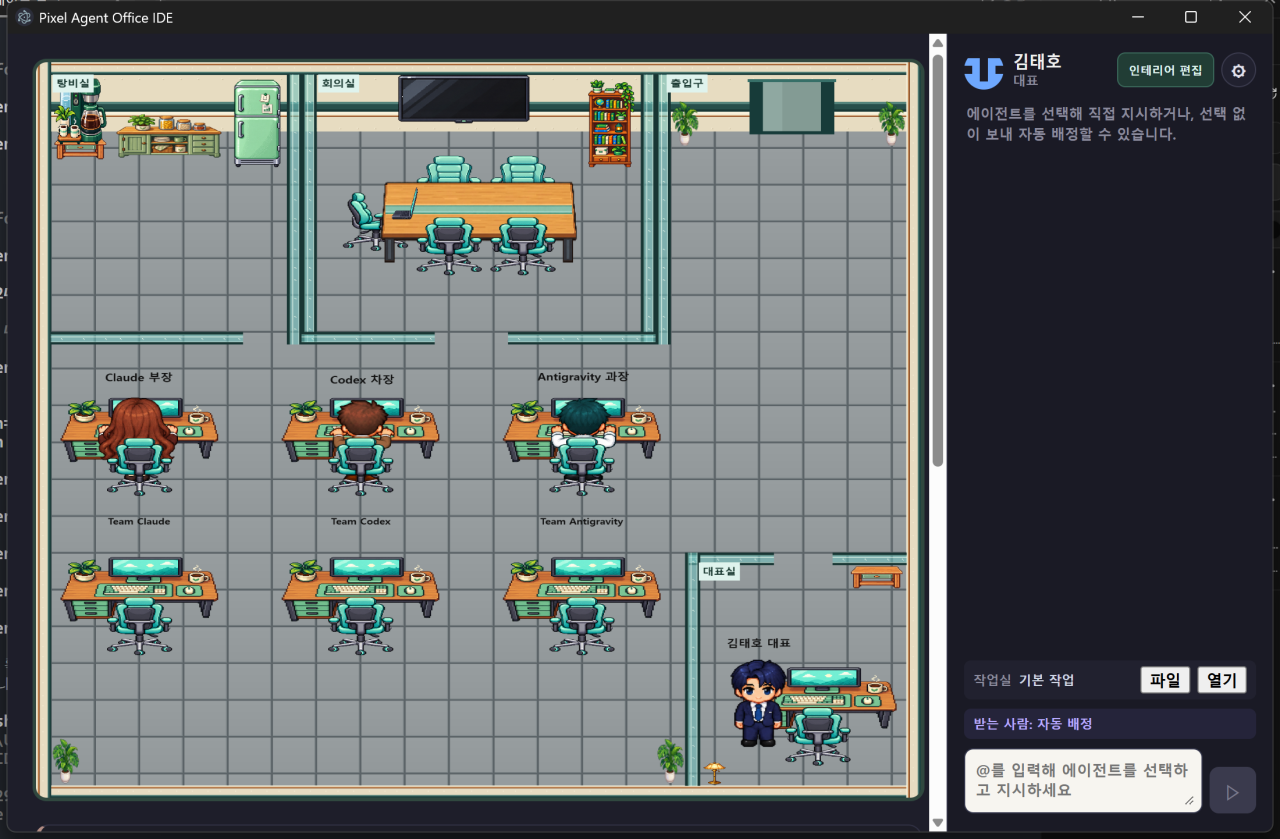
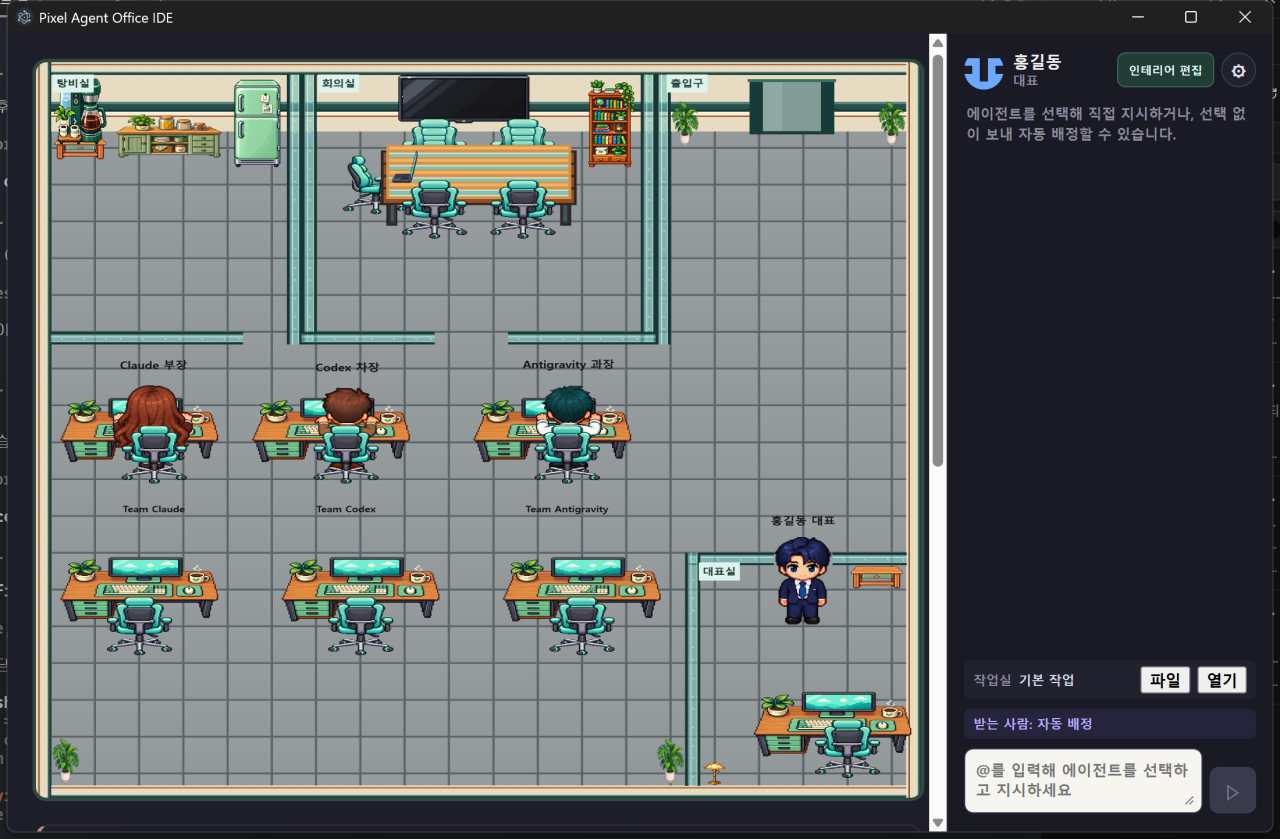
feat: let each install name its own representative
The representative's name ("김태호") was hardcoded across the chat
header, chat messages, and the office floor label - literally the
name of whoever built this app, baked into a public product. Every
install now prompts for a name on first launch and can change it
later from Settings; the name is stored in userData and propagates
live to the office scene and chat without a restart.

Also swaps the landing page screenshot, which showed that hardcoded
real name, for one taken with a generic placeholder name.

Claude-Session: https://claude.ai/code/session_01UEd7znGKB12Fiumt6ZuCpS

diff --git a/src/renderer/src/App.tsx b/src/renderer/src/App.tsx
@@ -7,6 +7,7 @@ import DiffPanel from './components/DiffPanel'
 import ChatPanel from './components/ChatPanel'
 import WorkspacePanel from './components/WorkspacePanel'
 import ResumeProjectDialog from './components/ResumeProjectDialog'
+import FirstRunNameDialog from './components/FirstRunNameDialog'
 import { resolveResumeRequest } from './lib/resumeCommands'
 import { MEETING_LEADS, isMeetingQuestion, pendingMeetingQuestions, type MeetingDraft } from '@shared/meetingNotes'
 import { MEETING_NOTES_KEY, readMeetingDraft } from './lib/meetingNotes'
@@ -57,6 +58,8 @@ function App() {
   const [manuallyOffDutyIds, setManuallyOffDutyIds] = useState<Set<string>>(new Set())
   const [representativeVisitors, setRepresentativeVisitors] = useState(() => readOfficeVisitors(localStorage))
   const [conversationProfileId, setConversationProfileId] = useState<string | null>(null)
+  const [representativeName, setRepresentativeName] = useState('대표')
+  const [showNamePrompt, setShowNamePrompt] = useState(false)
   const recoveredCommand = useRef(false)
   const instancesLoaded = useRef(false)
   const [meetingDraft, setMeetingDraft] = useState<MeetingDraft | null>(() => readMeetingDraft(localStorage))
@@ -84,7 +87,18 @@ function App() {
   }
 
   const { messages, lastTaskByInstance, sendPrompt, sendPlanningPrompt, sendAssignments, addSystemMessage, addUserMessage, addAgentMessage, cancelPlanning, trackRestoredTasks } =
-    useAgentChat(instances, templates, handlePlanReady)
+    useAgentChat(instances, templates, representativeName, handlePlanReady)
+
+  useEffect(() => {
+    window.api.userProfile.getRepresentativeName().then(setRepresentativeName)
+    window.api.userProfile.hasRepresentativeName().then((has) => { if (!has) setShowNamePrompt(true) })
+    return window.api.userProfile.onRepresentativeNameChanged(setRepresentativeName)
+  }, [])
+
+  const confirmRepresentativeName = (name: string): void => {
+    window.api.userProfile.setRepresentativeName(name).then(setRepresentativeName)
+    setShowNamePrompt(false)
+  }
 
   useEffect(() => {
     if (!window.api.tasks.dispatch) return
@@ -657,6 +671,7 @@ ${plan.originalText}`
           meetingActive={meetingActive}
           manuallyOffDutyIds={manuallyOffDutyIds}
           representativeVisitors={representativeVisitors}
+          representativeName={representativeName}
           messages={messages}
           requests={requests}
           onConversationChange={setConversationProfileId}
@@ -679,6 +694,7 @@ ${plan.originalText}`
         instances={instances}
         templates={templates}
         workFolder={workFolder}
+        userName={representativeName}
         onOpenFiles={() => setFilesOpen(true)}
         onOpenFolder={() => { void window.api.workspace.openFolder().catch((e) => setError(String(e))) }}
         messages={messages}
@@ -689,6 +705,7 @@ ${plan.originalText}`
 
       {filesOpen && <WorkspacePanel workFolder={workFolder} onChooseFolder={chooseFolder} onClose={() => setFilesOpen(false)} />}
       {resumeOpen && <ResumeProjectDialog tasks={trackedTasks} onClose={() => setResumeOpen(false)} onSelect={project => { void resumeProject(project) }} />}
+      {showNamePrompt && <FirstRunNameDialog onConfirm={confirmRepresentativeName} onSkip={() => setShowNamePrompt(false)} />}
 
       {selectedInstanceId &&
         (() => {

diff --git a/src/renderer/src/SettingsWindow.tsx b/src/renderer/src/SettingsWindow.tsx
@@ -65,6 +65,8 @@ function SettingsWindow() {
   const [loginSession, setLoginSession] = useState<{ ptyId: string; title: string } | null>(null)
   const [capacities, setCapacities] = useState<Record<string, number>>({})
   const [profiles, setProfiles] = useState<AgentProfile[]>([])
+  const [representativeName, setRepresentativeName] = useState('')
+  const [nameSaved, setNameSaved] = useState(false)
 
   useEffect(() => {
     window.api.templates.list().then((list) => {
@@ -73,6 +75,7 @@ function SettingsWindow() {
     })
     window.api.teamCapacity.list().then(setCapacities)
     window.api.profiles.list().then(setProfiles)
+    window.api.userProfile.getRepresentativeName().then(setRepresentativeName)
     const unsubscribeTemplates = window.api.templates.onChanged(() => {
       window.api.templates.list().then(setTemplates)
       window.api.profiles.list().then(setProfiles)
@@ -86,6 +89,14 @@ function SettingsWindow() {
       unsubscribeCapacity()
     }
   }, [])
+
+  const saveRepresentativeName = async (): Promise<void> => {
+    if (!representativeName.trim()) return
+    const saved = await window.api.userProfile.setRepresentativeName(representativeName)
+    setRepresentativeName(saved)
+    setNameSaved(true)
+    setTimeout(() => setNameSaved(false), 2000)
+  }
 
   const resetForm = (): void => {
     setEditingId(null)
@@ -142,6 +153,29 @@ function SettingsWindow() {
         <h1>에이전트 설정</h1>
         <span className="settings-count-badge">{templates.length}개 등록됨</span>
       </div>
+
+      <form
+        className="settings-form-card"
+        onSubmit={(e) => { e.preventDefault(); void saveRepresentativeName() }}
+      >
+        <h3>내 이름</h3>
+        <p className="settings-hint">오피스 화면과 채팅에 대표 이름으로 표시됩니다.</p>
+        <label>
+          이름
+          <input
+            value={representativeName}
+            onChange={(e) => setRepresentativeName(e.target.value)}
+            placeholder="예: 홍길동"
+            maxLength={20}
+            required
+          />
+        </label>
+        <div className="settings-form-actions">
+          <button type="submit" className="pill-btn pill-btn-primary">저장</button>
+          {nameSaved && <span className="settings-saved-hint">저장됨</span>}
+        </div>
+      </form>
+
       <p className="settings-hint">
         오피스에 배치할 수 있는 에이전트 템플릿을 관리합니다. 실제 CLI 실행 명령어를 등록하고, API
         키를 넣거나 계정으로 직접 로그인하세요.

diff --git a/src/renderer/src/hooks/useAgentChat.ts b/src/renderer/src/hooks/useAgentChat.ts
@@ -42,15 +42,20 @@ export interface AgentAssignment {
 export function useAgentChat(
   instances: AgentInstance[],
   templates: AgentTemplate[],
+  userName: string,
   onPlanReady?: (payload: PlanReadyPayload) => void
 ) {
   const [messages, setMessages] = useState<ChatMessage[]>(() => readChatHistory(localStorage))
   const [lastTaskByInstance, setLastTaskByInstance] = useState<Record<string, string>>({})
+  // kept fresh every render so the long-lived pty:data listener below always
+  // sees the current name without needing to resubscribe
+  const userNameRef = useRef(userName)
+  userNameRef.current = userName
 
   useEffect(() => saveChatHistory(localStorage, messages), [messages])
 
   const addUserMessage = (text: string): void => {
-    const message = userChatMessage(text)
+    const message = userChatMessage(text, userNameRef.current)
     setMessages((prev) => [...prev, message])
   }
 
@@ -297,14 +302,7 @@ export function useAgentChat(
 
     setMessages((prev) => [
       ...prev,
-      {
-        id: crypto.randomUUID(),
-        kind: 'user',
-        authorName: '김태호',
-        authorColor: '#6ea8fe',
-        authorSeed: 'me',
-        text: displayText
-      },
+      userChatMessage(displayText, userNameRef.current),
       {
         id: crypto.randomUUID(),
         kind: 'system',
@@ -358,7 +356,7 @@ export function useAgentChat(
 
     setMessages((prev) => [
       ...prev,
-      ...(displayText === null ? [] : [userChatMessage(displayText)]),
+      ...(displayText === null ? [] : [userChatMessage(displayText, userNameRef.current)]),
       {
         id: crypto.randomUUID(),
         kind: 'system',
@@ -418,14 +416,7 @@ export function useAgentChat(
 
     setMessages((prev) => [
       ...prev,
-      {
-        id: crypto.randomUUID(),
-        kind: 'user',
-        authorName: '김태호',
-        authorColor: '#6ea8fe',
-        authorSeed: 'me',
-        text: originalText
-      },
+      userChatMessage(originalText, userNameRef.current),
       {
         id: crypto.randomUUID(),
         kind: 'system',

diff --git a/src/renderer/src/styles/global.css b/src/renderer/src/styles/global.css
@@ -1206,7 +1206,13 @@ textarea {
 
 .settings-form-actions {
   display: flex;
+  align-items: center;
   gap: 8px;
+}
+
+.settings-saved-hint {
+  color: #7fd8a4;
+  font-size: 13px;
 }
 
 .profile-card-diff-btn {
@@ -1487,6 +1493,12 @@ textarea {
 .resume-project-option { display: flex; flex-direction: column; gap: 8px; width: 100%; margin-top: 12px; padding: 16px; text-align: left; border: 1px solid #555875; border-radius: 6px; background: #2c314b; color: #eef0f6; cursor: pointer; }
 .resume-project-option:hover { background: #394365; }
 .resume-project-option small { color: #abb6d0; overflow-wrap: anywhere; }
+.first-run-dialog { width: min(420px, 86vw); padding: 24px; border: 1px solid #555875; border-radius: 12px; background: #202238; color: #eef0f6; }
+.first-run-dialog::backdrop { background: #0009; }
+.first-run-dialog h2 { margin: 0 0 8px; font-size: 20px; }
+.first-run-dialog p { margin: 0 0 16px; color: #b9bfd4; font-size: 13px; line-height: 1.6; }
+.first-run-dialog input { width: 100%; padding: 10px 12px; border: 1px solid #555875; border-radius: 6px; background: #2c314b; color: #eef0f6; font-size: 14px; box-sizing: border-box; }
+.first-run-dialog-actions { display: flex; justify-content: flex-end; gap: 8px; margin-top: 18px; }
 .meeting-notes-bar { display: flex; align-items: center; flex-wrap: wrap; gap: 10px; padding: 10px 14px; margin-bottom: 12px; background: #302b22; color: #f3dbac; border: 1px solid #92724d; border-radius: 6px; font-size: 13px; }
 .meeting-notes-bar > span:first-child { flex: 1; min-width: 200px; }
 .meeting-notes-bar button, .meeting-question-btn { padding: 6px 10px; color: #f3dbac; background: #473a2c; border: 1px solid #92724d; border-radius: 4px; cursor: pointer; }

diff --git a/src/main/userProfileStore.ts b/src/main/userProfileStore.ts
@@ -1,0 +1,41 @@
+import { existsSync, mkdirSync, readFileSync, writeFileSync } from 'fs'
+import { dirname, join } from 'path'
+import { app } from 'electron'
+
+export const DEFAULT_REPRESENTATIVE_NAME = '대표'
+
+function getStorePath(): string {
+  return join(app.getPath('userData'), 'user-profile.json')
+}
+
+export const userProfileStore = {
+  /** Every install ships with the same generic label, not a real person's
+   *  name - each user names their own representative on first launch. */
+  getRepresentativeName(): string {
+    const path = getStorePath()
+    if (!existsSync(path)) return DEFAULT_REPRESENTATIVE_NAME
+    try {
+      const parsed = JSON.parse(readFileSync(path, 'utf-8')) as { representativeName?: string }
+      const name = parsed.representativeName?.trim()
+      return name && name.length > 0 ? name : DEFAULT_REPRESENTATIVE_NAME
+    } catch {
+      return DEFAULT_REPRESENTATIVE_NAME
+    }
+  },
+
+  /** Whether the user has ever set a name - distinct from the getter's
+   *  fallback, so the renderer can tell "never configured" apart from
+   *  "explicitly chose the default word". */
+  hasSetRepresentativeName(): boolean {
+    return existsSync(getStorePath())
+  },
+
+  setRepresentativeName(name: string): string {
+    const trimmed = name.trim()
+    if (!trimmed) return this.getRepresentativeName()
+    const path = getStorePath()
+    mkdirSync(dirname(path), { recursive: true })
+    writeFileSync(path, JSON.stringify({ representativeName: trimmed }, null, 2), 'utf-8')
+    return trimmed
+  }
+}

diff --git a/src/renderer/src/components/FirstRunNameDialog.tsx b/src/renderer/src/components/FirstRunNameDialog.tsx
@@ -1,0 +1,36 @@
+import { useEffect, useRef, useState } from 'react'
+
+export default function FirstRunNameDialog({ onConfirm, onSkip }: {
+  onConfirm: (name: string) => void
+  onSkip: () => void
+}) {
+  const dialog = useRef<HTMLDialogElement>(null)
+  const [name, setName] = useState('')
+  useEffect(() => { dialog.current?.showModal() }, [])
+
+  const submit = (): void => {
+    const trimmed = name.trim()
+    if (!trimmed) return
+    onConfirm(trimmed)
+  }
+
+  return (
+    <dialog className="first-run-dialog" ref={dialog} onCancel={onSkip} aria-labelledby="first-run-name-title">
+      <form onSubmit={(e) => { e.preventDefault(); submit() }}>
+        <h2 id="first-run-name-title">대표님 성함을 알려주세요</h2>
+        <p>오피스 화면과 채팅에 표시될 이름입니다. 설정에서 언제든 바꿀 수 있어요.</p>
+        <input
+          autoFocus
+          value={name}
+          onChange={(e) => setName(e.target.value)}
+          placeholder="예: 홍길동"
+          maxLength={20}
+        />
+        <div className="first-run-dialog-actions">
+          <button type="button" className="pill-btn" onClick={onSkip}>나중에</button>
+          <button type="submit" className="pill-btn pill-btn-primary" disabled={!name.trim()}>시작하기</button>
+        </div>
+      </form>
+    </dialog>
+  )
+}

diff --git a/src/main/ipc.ts b/src/main/ipc.ts
@@ -11,6 +11,7 @@ import type { MeetingDraft } from '../shared/meetingNotes'
 import { diffAgainstBase, mergeDeskBranch } from './gitWorktreeManager'
 import { mergeTaskFeature } from './taskFeatureWorktree'
 import { teamCapacityStore } from './teamCapacityStore'
+import { userProfileStore } from './userProfileStore'
 import { buildAgentProfiles } from '../shared/agentProfiles'
 import { TASK_DOCUMENTS_FOLDER, WORKSPACE_FOLDERS } from '../shared/workspaceLayout'
 import { logRendererError } from './errorLog'
@@ -106,6 +107,16 @@ export function registerIpcHandlers(): void {
   })
 
   ipcMain.on('settings:open', () => openSettingsWindow())
+
+  ipcMain.handle('user-profile:get-representative-name', () => userProfileStore.getRepresentativeName())
+  ipcMain.handle('user-profile:has-representative-name', () => userProfileStore.hasSetRepresentativeName())
+  ipcMain.handle('user-profile:set-representative-name', (_event, name: string) => {
+    const result = userProfileStore.setRepresentativeName(name)
+    for (const win of BrowserWindow.getAllWindows()) {
+      win.webContents.send('user-profile:representative-name-changed', result)
+    }
+    return result
+  })
 
   ipcMain.handle('workspace:get', () => workspaceStore.get())
 

diff --git a/src/preload/index.ts b/src/preload/index.ts
@@ -142,6 +142,17 @@ const api: PreloadApi = {
       ipcRenderer.on('team-capacity:changed', listener)
       return () => ipcRenderer.removeListener('team-capacity:changed', listener)
     }
+  },
+  userProfile: {
+    getRepresentativeName: (): Promise<string> => ipcRenderer.invoke('user-profile:get-representative-name'),
+    hasRepresentativeName: (): Promise<boolean> => ipcRenderer.invoke('user-profile:has-representative-name'),
+    setRepresentativeName: (name: string): Promise<string> =>
+      ipcRenderer.invoke('user-profile:set-representative-name', name),
+    onRepresentativeNameChanged: (callback: (name: string) => void): (() => void) => {
+      const listener = (_event: Electron.IpcRendererEvent, name: string): void => callback(name)
+      ipcRenderer.on('user-profile:representative-name-changed', listener)
+      return () => ipcRenderer.removeListener('user-profile:representative-name-changed', listener)
+    }
   }
 }
 

diff --git a/src/renderer/src/game/representativeController.ts b/src/renderer/src/game/representativeController.ts
@@ -27,7 +27,10 @@ export function createRepresentativeActor(scene: OfficeScene): void {
     .setDisplaySize(ACTOR_SPRITE_WIDTH, ACTOR_SPRITE_HEIGHT).setOrigin(0.5, 1)
   scene.representativeSeatedForeground = scene.add.sprite(0, 0, 'ceo-seated-sheet-frames', 'ceo-sit-front')
     .setDisplaySize(ACTOR_SPRITE_WIDTH, ACTOR_SPRITE_HEIGHT).setOrigin(0.5, 1).setVisible(false)
-  scene.representativeLabel = scene.addOfficeText(0, 0, '김태호 대표', {
+  // Real label text is set moments later by the first applySnapshot() call
+  // once the representative's configured name has loaded from the main
+  // process - this generic placeholder is only visible for a single frame.
+  scene.representativeLabel = scene.addOfficeText(0, 0, '대표', {
     fontSize: '13px', color: '#111111', align: 'center'
   }).setOrigin(0.5, 1).setPadding(4, 4).setDepth(700)
   scene.representativeSpeechBubble = scene.add.image(0, 0, 'speech-bubble', 'panel')

diff --git a/src/renderer/src/components/ChatPanel.tsx b/src/renderer/src/components/ChatPanel.tsx
@@ -7,6 +7,7 @@ interface ChatPanelProps {
   instances: AgentInstance[]
   templates: AgentTemplate[]
   workFolder: string | null
+  userName: string
   onOpenFiles: () => void
   onOpenFolder: () => void
   messages: ChatMessage[]
@@ -19,6 +20,7 @@ function ChatPanel({
   instances,
   templates,
   workFolder,
+  userName,
   onOpenFiles,
   onOpenFolder,
   messages,
@@ -100,7 +102,7 @@ function ChatPanel({
         <div className="chat-user">
           <IdenticonAvatar seed="me-ceo" color="#6ea8fe" size={34} />
           <div className="chat-user-info">
-            <span className="chat-user-name">김태호</span>
+            <span className="chat-user-name">{userName}</span>
             <span className="chat-user-title">대표</span>
           </div>
         </div>

diff --git a/src/renderer/src/components/OfficeView.tsx b/src/renderer/src/components/OfficeView.tsx
@@ -19,6 +19,7 @@ interface OfficeViewProps {
   meetingActive: boolean
   manuallyOffDutyIds: Set<string>
   representativeVisitors?: Set<string>
+  representativeName: string
   messages: ChatMessage[]
   requests: OfficeRequest[]
   onConversationChange: (profileId: string) => void
@@ -41,6 +42,7 @@ function OfficeView(props: OfficeViewProps) {
     now: officeClock.now.getTime(),
     meetingActive: props.meetingActive,
     elevatorOpen: officeClock.isClockInActive,
+    representativeName: props.representativeName,
     actors: props.profiles.map((profile, rosterIndex) => {
       const instance = props.instances.find((candidate) => candidate.profileId === profile.profileId)
       const template = props.templates.find((candidate) => candidate.id === profile.templateId)

diff --git a/src/renderer/src/game/actorController.ts b/src/renderer/src/game/actorController.ts
@@ -20,6 +20,10 @@ import { staffWorkTexture } from './staffWorkAnimation'
 export function applySnapshot(scene: OfficeScene, snapshot: OfficeWorldSnapshot): void {
   scene.snapshot = snapshot
   scene.pendingSnapshot = null
+  const representativeLabelText = `${snapshot.representativeName} 대표`
+  if (scene.representativeLabel && scene.representativeLabel.text !== representativeLabelText) {
+    scene.representativeLabel.setText(representativeLabelText)
+  }
   for (const profileId of scene.greetedVisitors) {
     if (!snapshot.actors.some((actor) => actor.profileId === profileId && actor.presence === 'representativeVisit')) {
       scene.greetedVisitors.delete(profileId)
